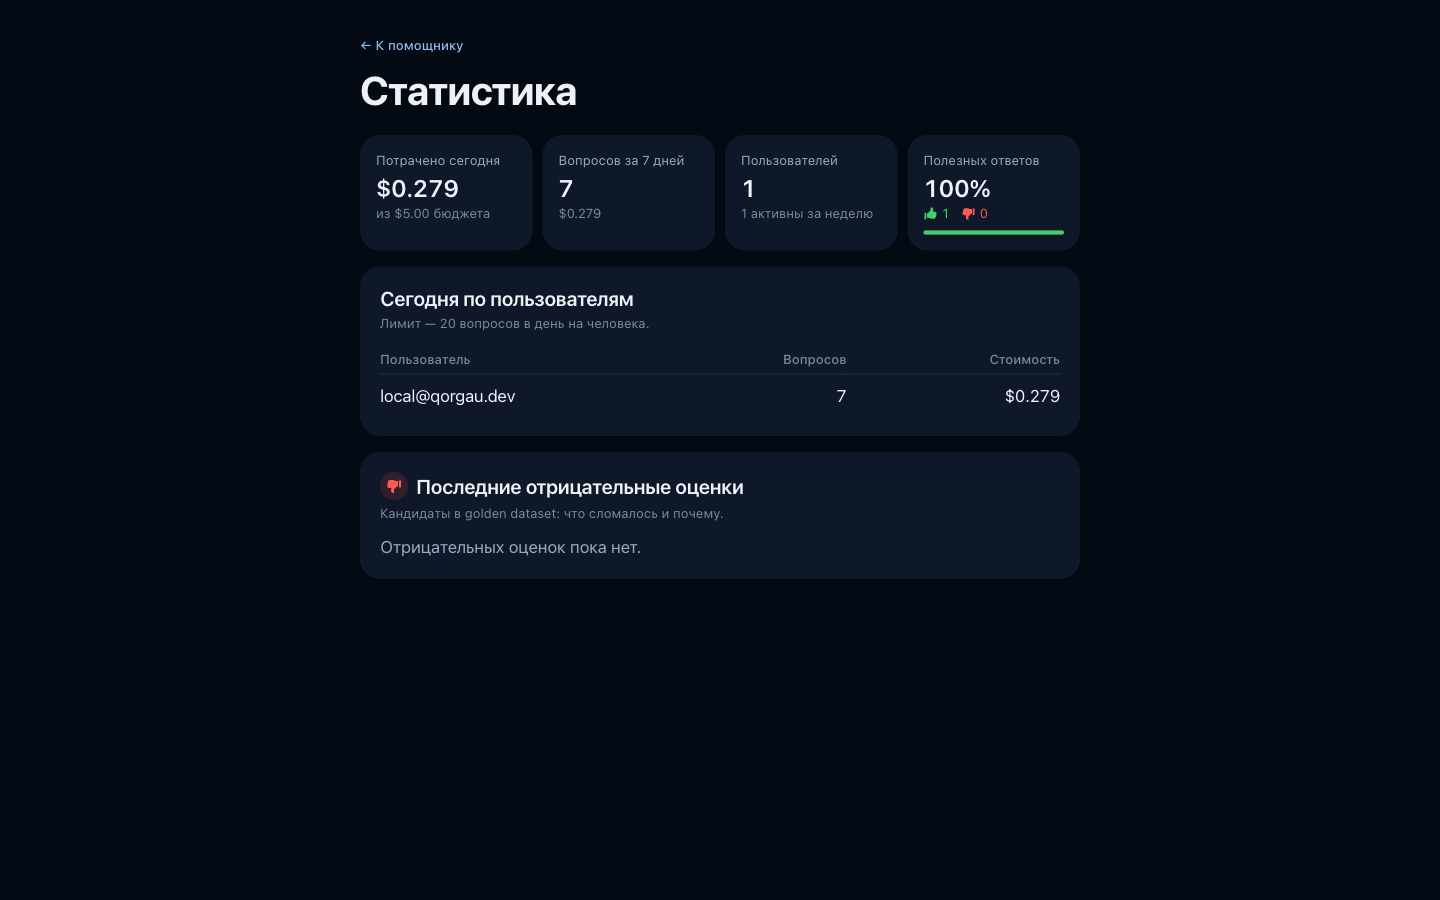
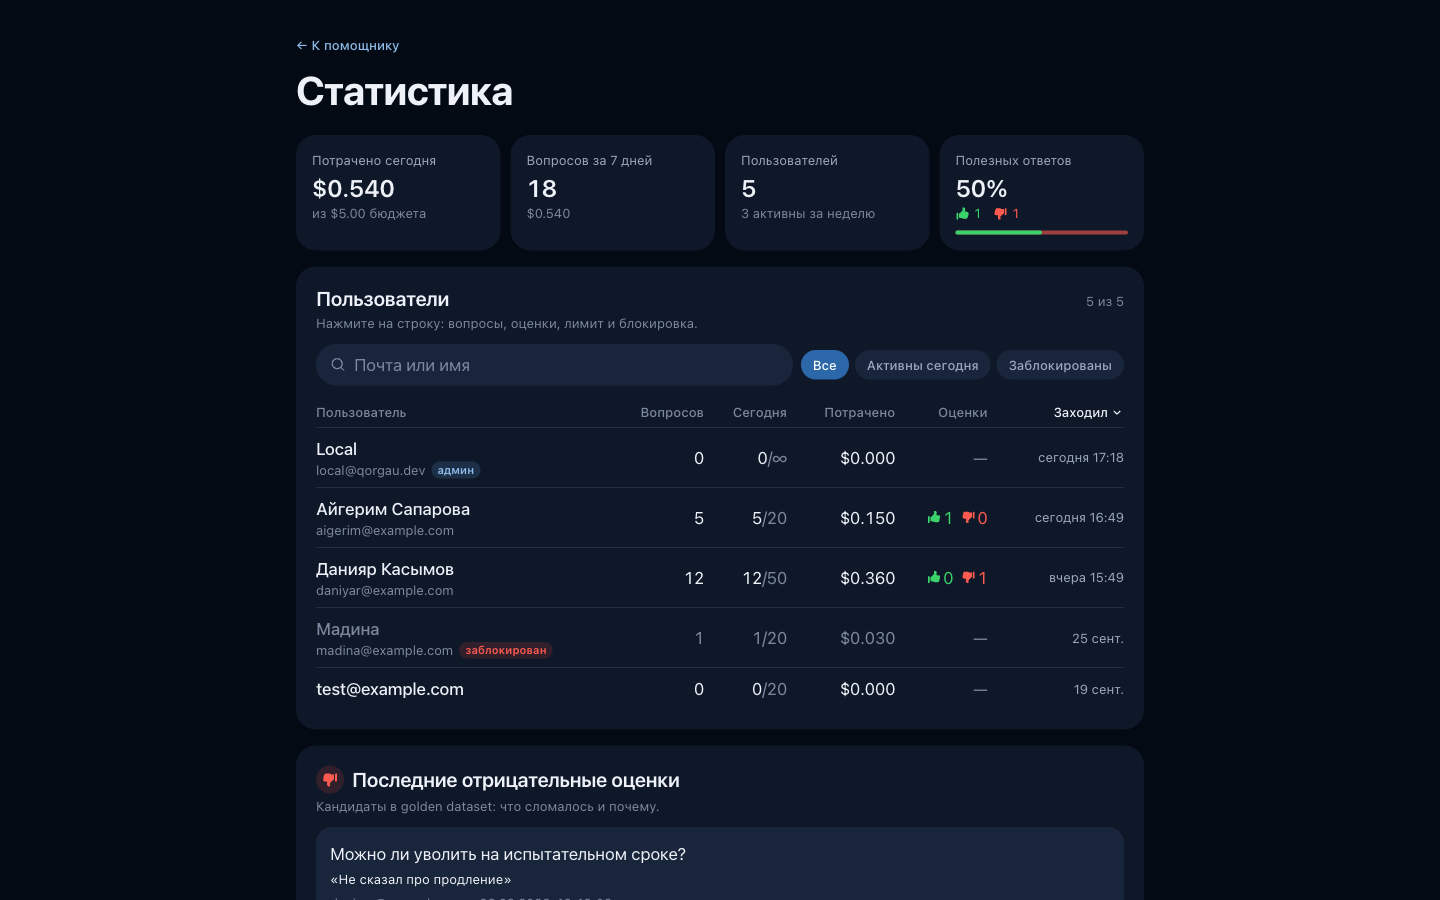
Update docs for the admin users table and 90 tests
- README: admin feature, new admin screenshot, live CI badge
- ARCHITECTURE and final project doc: /admin/users, personal limits, blocking
- Test count 90 in all docs

diff --git a/ARCHITECTURE.md b/ARCHITECTURE.md
@@ -172,9 +172,9 @@ Workflow `review_document()` выполняется отдельно от LangGr
 
 **Авторизация.** [Auth.js + Google](frontend/auth.ts) создают веб-сессию; [маршрут token](frontend/app/api/token/route.ts) выдаёт HS256 JWT на один час. Backend проверяет подпись, `exp`, `sub`, issuer `qorgau-web` и audience `qorgau-api`. Роль администратора определяется по `ADMIN_EMAILS` на сервере. При `AUTH_REQUIRED=0` доступен локальный режим с общим пользователем-администратором; при публичном развёртывании требуется `AUTH_REQUIRED=1`.
 
-**Хранение и доступ.** У документов, чатов и отзывов проверяется владелец. `/admin/stats` доступен администратору. SQL хранит аккаунты, замаскированный журнал запросов, отзывы и JSON истории. История и комментарии не проходят универсальный фильтр ПДн перед сохранением; это не полностью обезличенная база. Загруженные документы хранятся в памяти одного процесса и теряются при перезапуске; TTL и общее хранилище документов не реализованы. История чата сохраняет интерфейс, но не является долговременной памятью агента.
+**Хранение и доступ.** У документов, чатов и отзывов проверяется владелец. Администратору доступны `/admin/stats` и `/admin/users`: таблица пользователей с вопросами, расходами и оценками, личный дневной лимит (1–1000) и блокировка. Заблокированный пользователь получает 403 на любом эндпоинте; администратора заблокировать нельзя. SQL хранит аккаунты, замаскированный журнал запросов, отзывы и JSON истории. История и комментарии не проходят универсальный фильтр ПДн перед сохранением; это не полностью обезличенная база. Загруженные документы хранятся в памяти одного процесса и теряются при перезапуске; TTL и общее хранилище документов не реализованы. История чата сохраняет интерфейс, но не является долговременной памятью агента.
 
-**Квоты.** По умолчанию — 20 учётных операций в день на пользователя и общий бюджет $5 в день. Вопрос, загрузка и отдельная проверка договора учитываются каждый своей записью. Администратор освобождён от личного лимита, но не от общего. День определяется по UTC. Превышение уже учтённого лимита даёт HTTP 429 до начала нового workflow.
+**Квоты.** По умолчанию — 20 учётных операций в день на пользователя (администратор может задать личный лимит) и общий бюджет $5 в день. Вопрос, загрузка и отдельная проверка договора учитываются каждый своей записью. Администратор освобождён от личного лимита, но не от общего. День определяется по UTC. Превышение уже учтённого лимита даёт HTTP 429 до начала нового workflow.
 
 Квота не резервирует бюджет атомарно: параллельные запросы и уже начатая работа могут превысить порог. Счётчик оценивает расходы chat/OCR по `usage` и локальной таблице цен, без эмбеддингов и инфраструктуры. `/search` не проходит проверку дневной квоты. Лимит eval-run отдельно проверяется перед LLM-вызовами и также допускает превышение из-за уже выполняющихся вызовов.
 
@@ -200,6 +200,6 @@ JWT-секрет должен совпадать у frontend и backend; OAuth c
 
 ### Проверки на 28.09.2026
 
-Полный `pytest` — **86 passed** (локально, с индексированным Qdrant). Он требует индексированного Qdrant, для двух поисковых тестов — ключа эмбеддингов, для reranker — дополнительных зависимостей и весов; набор без Qdrant (68 тестов) приведён в [EVALS.md](EVALS.md).
+`pytest` — **90 тестов**, CI на `main` зелёный. Полный прогон требует индексированного Qdrant, для двух поисковых тестов — ключа эмбеддингов, для reranker — дополнительных зависимостей и весов; набор без Qdrant (68 тестов) приведён в [EVALS.md](EVALS.md).
 
 [CI](.github/workflows/ci.yml) поднимает Qdrant, индексирует корпус, запускает pytest без `test_rerank.py`, проверяет hybrid Recall@5 ≥ 0.85, затем frontend lint и build. Полные LLM-evals выполняются отдельно из-за стоимости.

diff --git a/README.md b/README.md
@@ -12,7 +12,7 @@ Agentic RAG на LangGraph: агент ищет нормы через MCP-инс
 ![correctness](https://img.shields.io/badge/correctness-0.93%20vs%200.71%20у%20RAG-2e7d32)
 ![source recall](https://img.shields.io/badge/нужные%20статьи%20найдены-98%25-2e7d32)
 ![injection](https://img.shields.io/badge/prompt%20injection-0%20успешных%20атак-2e7d32)
-![tests](https://img.shields.io/badge/тесты-86%20passed-2e7d32)
+![tests](https://img.shields.io/badge/тесты-90-2e7d32) [![CI](https://github.com/Abegerov4/QorgauAI/actions/workflows/ci.yml/badge.svg)](https://github.com/Abegerov4/QorgauAI/actions/workflows/ci.yml)
 
 </div>
 
@@ -85,17 +85,18 @@ Agentic RAG на LangGraph: агент ищет нормы через MCP-инс
 - **Вход через Google**, у каждого пользователя своя история чатов на сервере.
 - **Лимиты:** 20 вопросов в день на человека и общий дневной бюджет в долларах, чтобы никто не сжёг ключ OpenAI.
 - **👍 / 👎 под каждым ответом.** Оценка уходит в Langfuse как score на трассу этого ответа, а отрицательные оценки с комментариями попадают на страницу статистики — готовые кандидаты в golden dataset.
+- **Админка:** таблица всех пользователей с поиском и сортировкой, вопросы каждого со статусом, оценкой и ссылкой на трассу, личный дневной лимит и блокировка.
 - Светлая и тёмная тема, мобильная версия.
 
 <table>
 <tr>
-<td width="40%"><img src="docs/screenshots/admin.png" alt="Статистика для администратора"></td>
+<td width="40%"><img src="docs/screenshots/admin.png" alt="Админка: таблица пользователей"></td>
 <td width="36%"><img src="docs/screenshots/home-light.png" alt="Светлая тема"></td>
 <td width="12%"><img src="docs/screenshots/mobile-chat.png" alt="Телефон: отчёт"></td>
 <td width="12%"><img src="docs/screenshots/mobile-history.png" alt="Телефон: история"></td>
 </tr>
 <tr>
-<td align="center"><sub>Статистика: расходы, лимиты, оценки</sub></td>
+<td align="center"><sub>Админка: пользователи, расходы, лимиты, блокировка</sub></td>
 <td align="center"><sub>Светлая тема</sub></td>
 <td align="center" colspan="2"><sub>Телефон</sub></td>
 </tr>
@@ -231,7 +232,7 @@ npm install && npm run dev
 
 ```bash
 cd backend
-.venv/bin/python -m pytest -q                                 # 86 тестов, без вызовов LLM; нужен Qdrant
+.venv/bin/python -m pytest -q                                 # 90 тестов, без вызовов LLM; нужен Qdrant
 .venv/bin/python -m app.eval.retrieval                        # Recall@5 поиска, копейки
 .venv/bin/python -m app.eval.run --pipelines A B C --budget 3 # полный A/B/C, ~$1.75
 .venv/bin/python -m app.eval.contract_review                  # проверка договоров, ~$0.16
@@ -239,7 +240,7 @@ cd backend
 
 CI на каждый push гоняет тесты бэкенда, оценку поиска (падает, если Recall@5 гибридного поиска ниже 0.85), линт и сборку фронтенда.
 
-На 28.09.2026 полный прогон — 86 passed (локально, с индексированным Qdrant); CI на `main` зелёный. Команды и зависимости — в [EVALS.md](EVALS.md).
+На 28.09.2026 — 90 тестов, CI на `main` зелёный. Два поисковых теста обращаются к OpenAI за эмбеддингами, остальные работают без сети. Команды и зависимости — в [EVALS.md](EVALS.md).
 
 ## Структура
 

diff --git a/EVALS.md b/EVALS.md
@@ -223,7 +223,7 @@ AGENT_RERANK=false GENERATOR_MODEL=gpt-5.5 GENERATOR_TEMPERATURE=none GENERATOR_
 
 `--budget` останавливает новые LLM-вызовы после достижения учтённого порога, но не резервирует стоимость уже начатых параллельных вызовов. `contract_review` не имеет аргумента `--budget`. `--rejudge <run>` меняет оценки существующего отчёта, не повторяя ответы; исходный отчёт стоит сохранить перед пересчётом.
 
-Результат на 28.09.2026: полный `pytest` с индексированным Qdrant и зависимостями reranker — **86 passed**. Без Qdrant можно запустить набор ниже (68 тестов).
+Результат на 28.09.2026: **90 тестов**, CI на `main` зелёный. Полный `pytest` требует индексированного Qdrant, зависимостей reranker и доступа к OpenAI для двух поисковых тестов. Без Qdrant можно запустить набор ниже.
 
 ```bash
 cd backend
